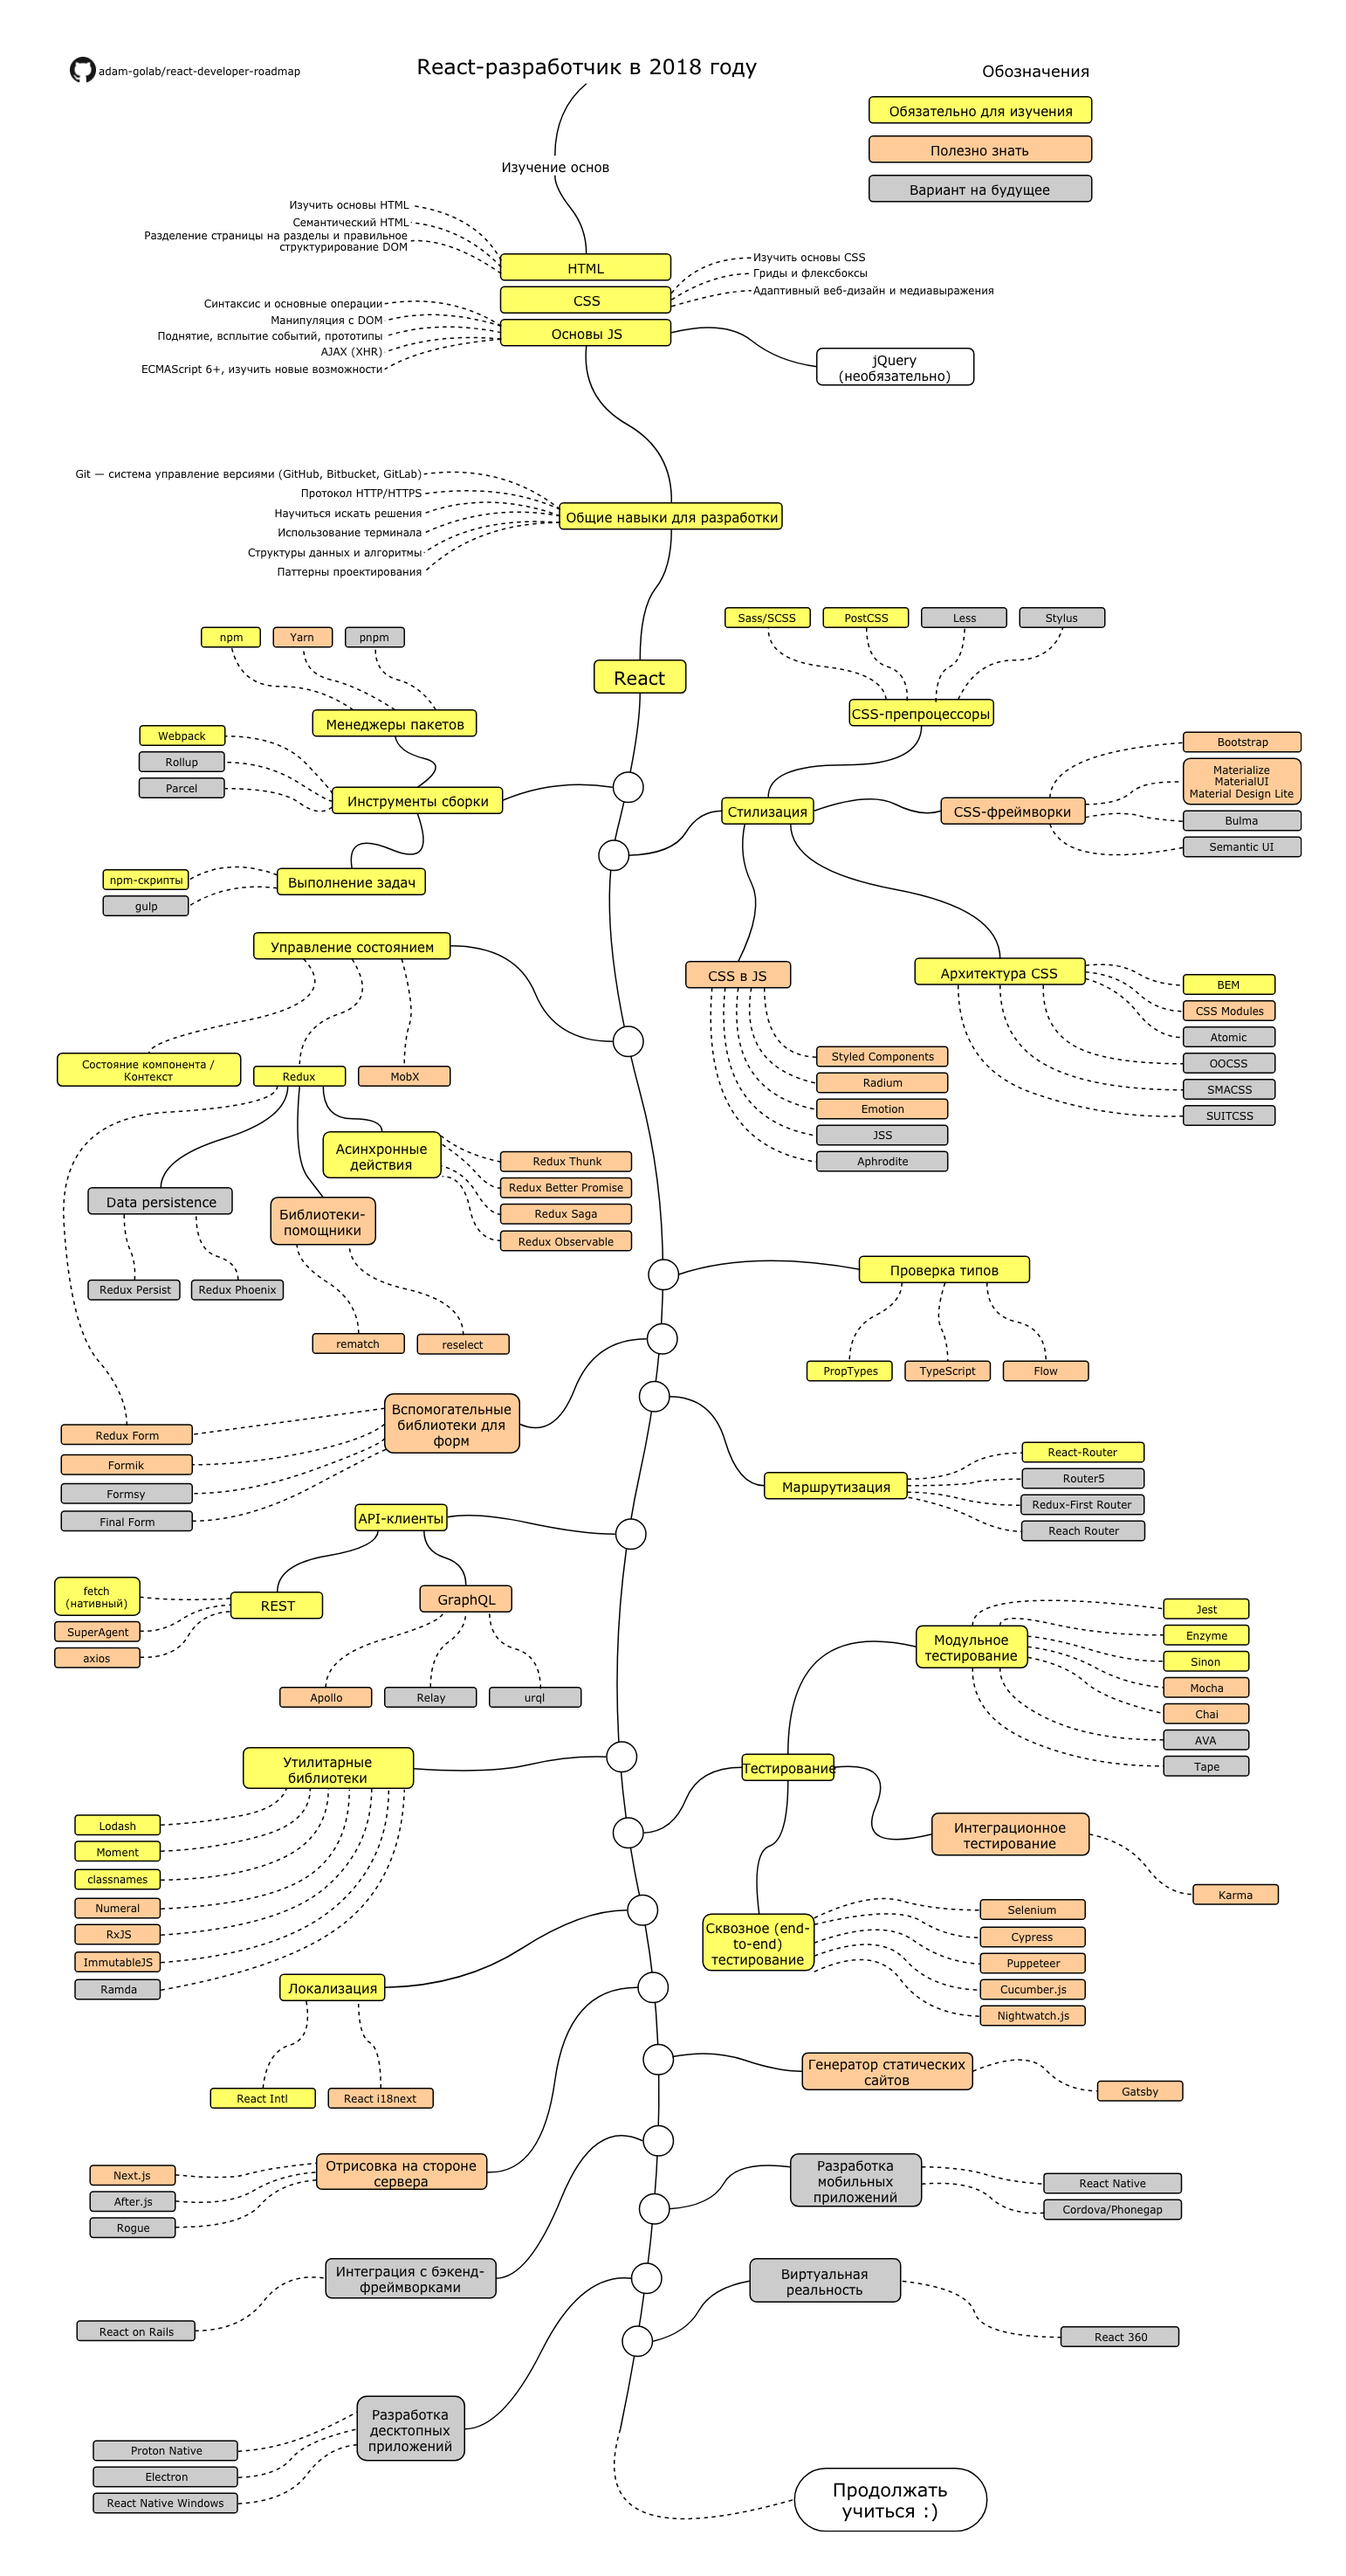
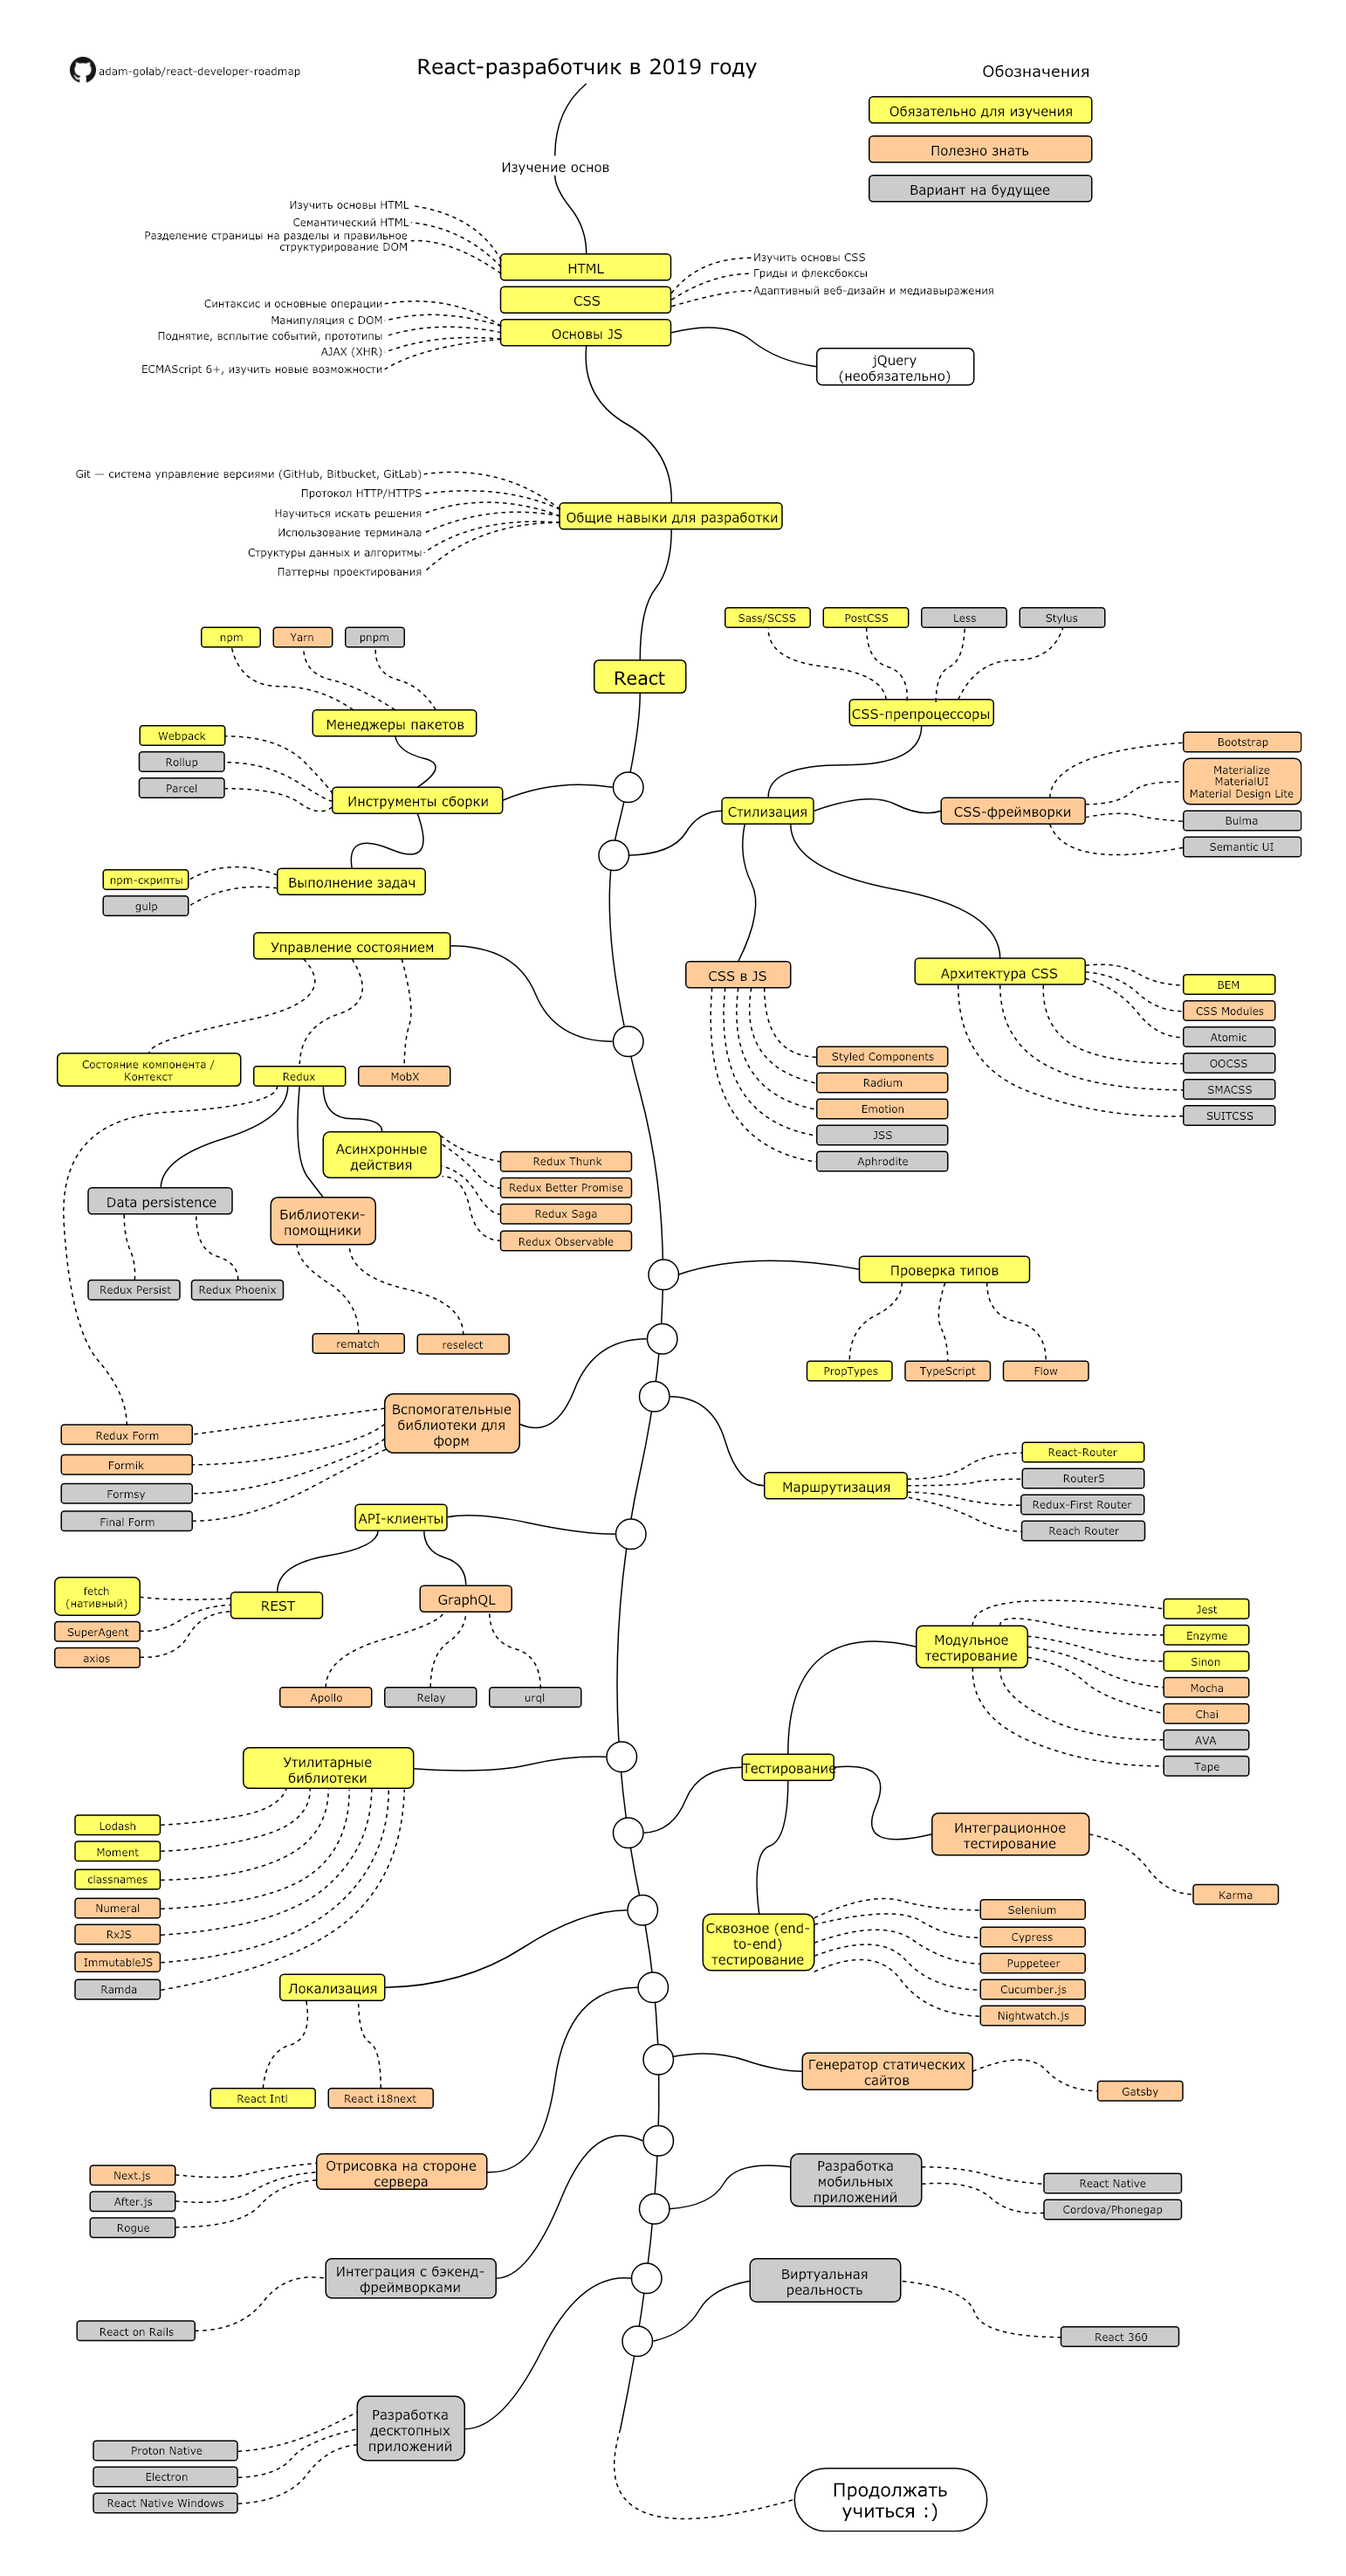
Updated to 2019

Changed region(s): [[0.249, 0.1872, 0.3113, 0.2184], [0.9027, 0.2808, 0.9339, 0.312]]

diff --git a/README-RU.md b/README-RU.md
@@ -4,7 +4,7 @@
 
 [README in Chinese](README-CN.md)
 
-> План, чтобы стать React-разработчиком в 2018 году:
+> План, чтобы стать React-разработчиком в 2019 году:
 
 Ниже вы можете найти схему, показывающую пути, которые могут привести, а также библиотеки, которые вам нужно изучить, чтобы стать разработчиком React. Я сделал эту схему в качестве подсказки для всех, кто спрашивает меня: «Что мне стоит изучить ещё в качестве React-разработчика?»
 

diff --git a/README-CN.md b/README-CN.md
@@ -4,7 +4,7 @@
 
 [README in Russian](README-RU.md)
 
-> 该指南将助你在 2018 成为一名 React 开发者
+> 该指南将助你在 2019 成为一名 React 开发者
 
 你可以在下面找到一张图，该图展示了你可以选取的路径及你想学习的库，从而成为一名 React 开发者。“作为 React 开发者，我接下来应该学习什么？”，我把这张图作为建议给每个问过我这一问题的人。
 

diff --git a/README.md b/README.md
@@ -3,7 +3,7 @@
 
 [README in Russian](README-RU.md)
 
-> Roadmap to becoming a React developer in 2018:
+> Roadmap to becoming a React developer in 2019:
 Below you can find a chart demonstrating the paths that you can take and the libraries that you would want to learn to become a React developer. I made this chart as a tip for everyone who asks me, "What should I learn next as a React developer?"
 
 ## Disclaimer
